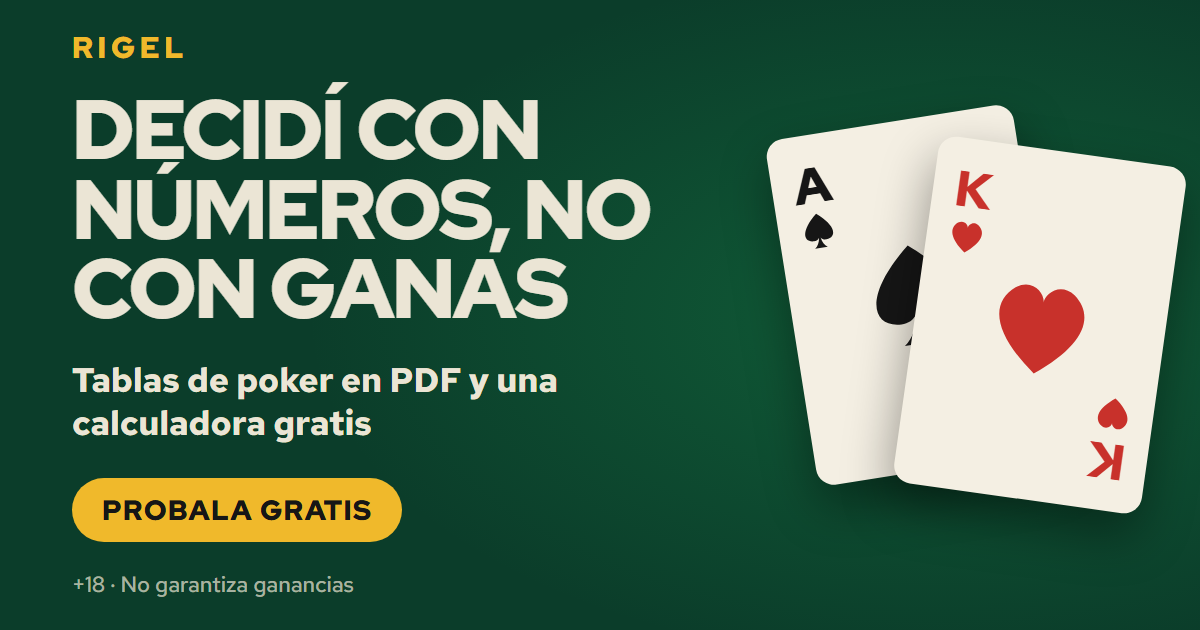
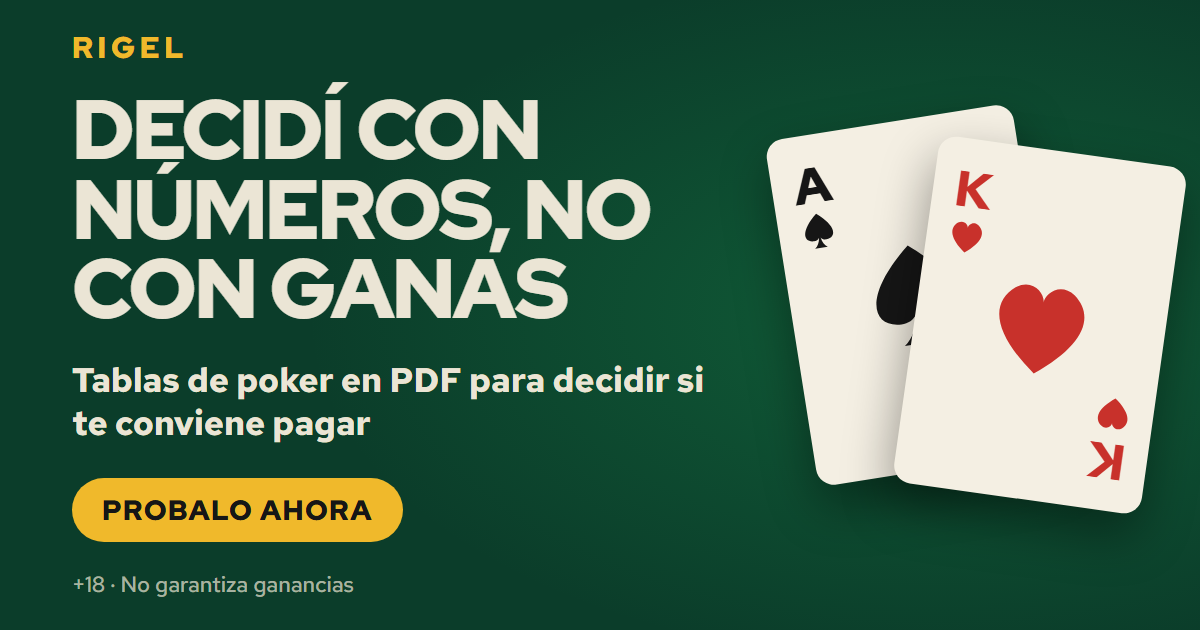
Quita 'calculadora gratis' de la vista previa del enlace
La descripcion y la imagen de vista previa ofrecian una calculadora gratis que no vendemos como tal. Ahora hablan de las tablas y de decidir si conviene pagar.

Changed region(s): [[0.0617, 0.6333, 0.3083, 0.7238], [0.37, 0.573, 0.5858, 0.6333], [0.185, 0.7841, 0.3083, 0.8444]]

diff --git a/index.html b/index.html
@@ -9,7 +9,7 @@
 <meta property="og:locale" content="es_AR">
 <meta property="og:site_name" content="Rigel">
 <meta property="og:title" content="Rigel · Decidí con números, no con ganas">
-<meta property="og:description" content="Tablas de poker en PDF y una calculadora gratis para decidir si te conviene pagar. +18 · No garantiza ganancias.">
+<meta property="og:description" content="Tablas de poker en PDF para decidir si te conviene pagar. +18 · No garantiza ganancias.">
 <meta property="og:url" content="https://juanma605.github.io/Rigel/">
 <meta property="og:image" content="https://juanma605.github.io/Rigel/og-image.png">
 <meta property="og:image:width" content="1200">
